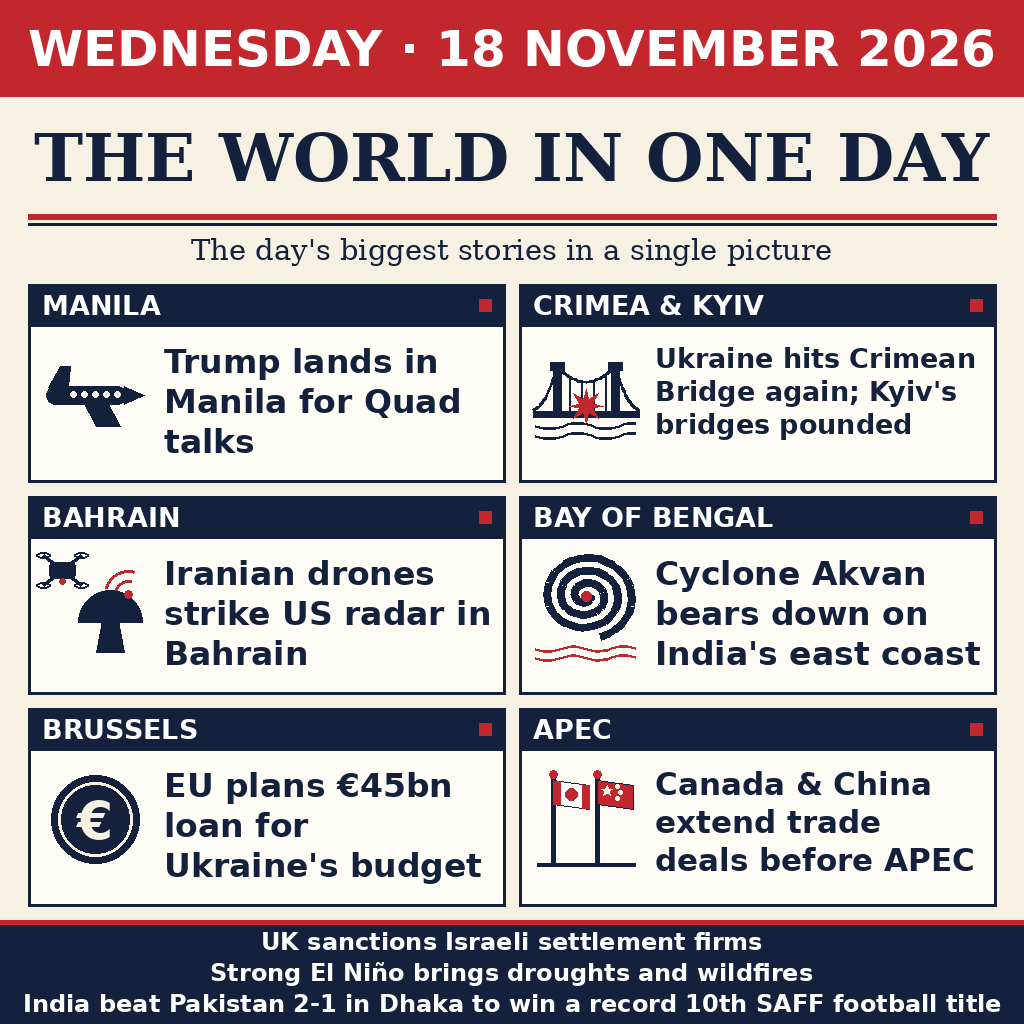
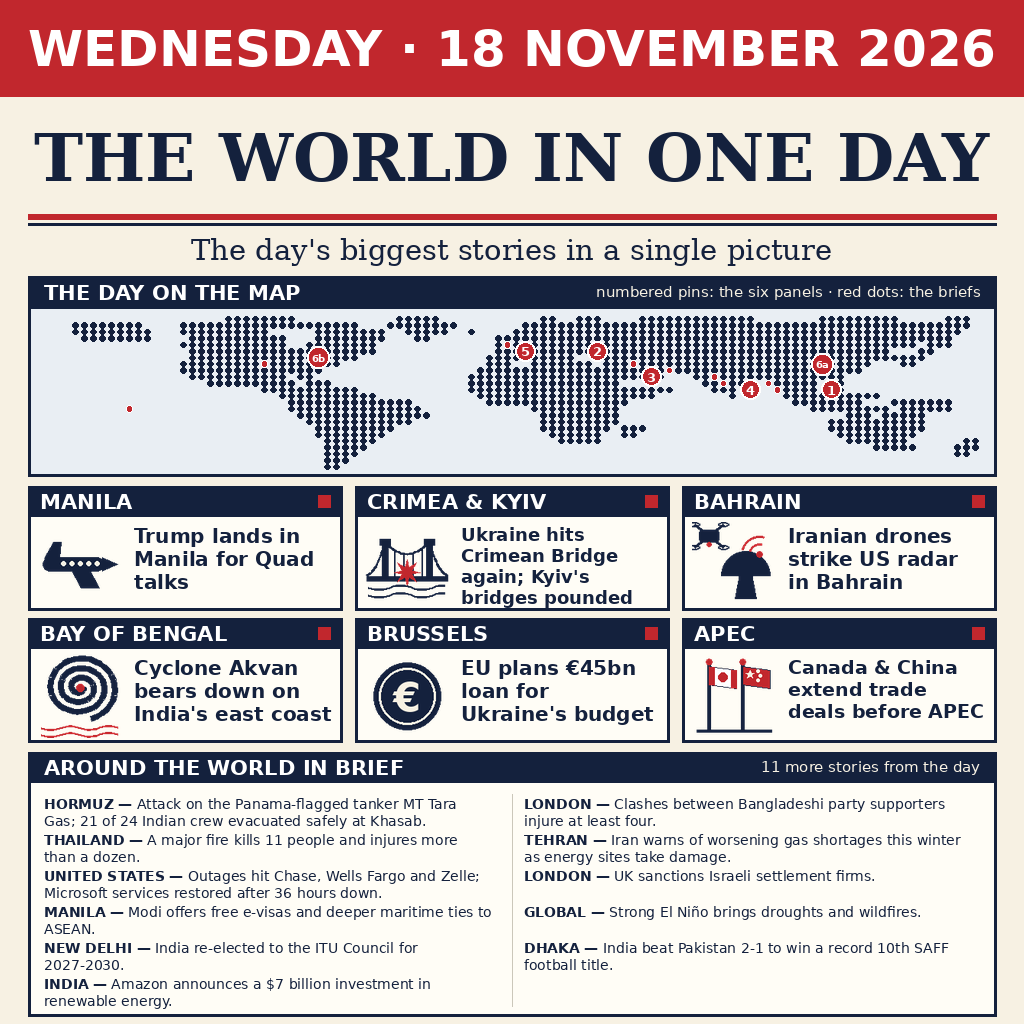
V2: world map with story pins + around-the-world briefs, 17 stories

diff --git a/tools/make_image.py b/tools/make_image.py
@@ -2,8 +2,10 @@
 """Render entry.png: the world news of Wednesday 18 November 2026 in one image.
 
 Newspaper-poster style, drawn entirely with PIL shapes and DejaVu type so
-every word stays crisp. The picture is a masthead naming the day, six story
-panels (place, icon, headline) and a ticker strip along the bottom.
+every word stays crisp. V2 layout: the masthead naming the day, a dotted
+world map with numbered pins for the six panel stories (plus dots for the
+briefs), the six story panels in a 3x2 grid, and an "Around the world in
+brief" section of eleven one-line briefs — 17 stories in all.
 
 Run:  python3 tools/make_image.py   ->  writes entry.png next to main.py
 """
@@ -18,6 +20,7 @@ PAPER = (247, 241, 227)      # cream newsprint
 NAVY = (20, 33, 61)          # ink navy
 RED = (193, 39, 45)          # accent red
 PANEL_BG = (255, 253, 246)   # panel paper
+MAP_BG = (233, 238, 243)     # pale sea grey-blue
 CREAM = (247, 241, 227)
 WHITE = (255, 255, 255)
 
@@ -58,16 +61,20 @@ def wrap_text(d, text, f, max_w):
     return lines
 
 
-def headline_lines(d, text, max_w, max_lines=3, start=33):
-    """Shrink the headline font until the wrap fits max_lines lines."""
+def headline_lines(d, text, max_w, max_lines=3, start=33, minimum=22,
+                   max_h=None):
+    """Shrink the headline font until the wrap fits max_lines lines
+    (and, when max_h is given, fits that pixel height too)."""
     size = start
-    while size >= 22:
+    while size >= minimum:
         f = font(SANS_B, size)
         lines = wrap_text(d, text, f, max_w)
-        if len(lines) <= max_lines:
+        lh = int(size * 1.18)
+        if len(lines) <= max_lines and (max_h is None
+                                        or len(lines) * lh <= max_h):
             return f, lines
-        size -= 2
-    f = font(SANS_B, 22)
+        size -= 1
+    f = font(SANS_B, minimum)
     return f, wrap_text(d, text, f, max_w)
 
 
@@ -188,6 +195,14 @@ def icon_flags(d, x, y):
         d.ellipse([x + dx - 2, y + dy - 2, x + dx + 2, y + dy + 2], fill=CREAM)
 
 
+def render_icon(icon_fn, size):
+    """Draw an icon in its native 110x110 box, then scale it to size."""
+    tmp = Image.new("RGBA", (110, 110), (0, 0, 0, 0))
+    td = ImageDraw.Draw(tmp)
+    icon_fn(td, 0, 0)
+    return tmp.resize((size, size), Image.LANCZOS)
+
+
 # ---------------------------------------------------------------- layout
 
 PANELS = [
@@ -215,52 +230,200 @@ def draw_masthead(d):
            font=font(SERIF, 29), fill=NAVY, anchor="mm")
 
 
-def draw_panel(d, px, py, pw, ph, place, headline, icon_fn):
+# ------------------------------------------------------------- world map
+# Equirectangular landmask, 104 columns (lon -180..180) by 24 rows
+# (lat +80..-58). '#' is land, '.' is sea. Authored by hand; the pins and
+# dots below are (column, row) cells in the same grid.
+
+LANDMASK = [
+    "....................########...........#####...........##..###....#############.......#########.....###.",
+    "...########....####################...########.......##################################################.",
+    "...#########...##########.....########..#####..#....##################################################..",
+    "....########....###########...########...##.......###################################################...",
+    "...............############..########.............###############################################.###...",
+    "................#####################.............############################################...##.....",
+    "................###################..............##########...####################################......",
+    "...............##################................###..#######.##############################...##.......",
+    "...............################.................###########################################.............",
+    "................###########.##.................######################...#################...............",
+    "..................##########.###...............#################.........#####..######.##...............",
+    "........................###########............#######################....###....#####.##...............",
+    "..........................###########...........####################........#.....###########...........",
+    "...........................##############........################..................########...#######...",
+    "...........................###############............##########.....................#########.######...",
+    "............................###############............#########.........................###.#####......",
+    ".............................############..............#########.......................###########......",
+    "..............................#########................########.###....................###########......",
+    "..............................########..................######..##......................#########.......",
+    "...............................######....................#####...........................#######......##",
+    "...............................#####........................................................#####....###",
+    "...............................####..................................................................##.",
+    "...............................###......................................................................",
+    "...............................##.......................................................................",
+]
+
+# (label, column, row): the six panel stories.
+MAP_PINS = [
+    ("1", 87, 11),    # Manila
+    ("2", 61, 5),     # Kyiv (Crimea just below)
+    ("3", 67, 9),     # Bahrain
+    ("4", 78, 11),    # Bay of Bengal
+    ("5", 53, 5),     # Brussels
+    ("6a", 86, 7),    # Beijing
+    ("6b", 30, 6),    # Ottawa
+]
+
+# (column, row): small unnumbered dots for the briefs' regions.
+MAP_DOTS = [
+    (69, 8),    # Hormuz
+    (81, 11),   # Thailand
+    (24, 7),    # United States
+    (74, 9),    # New Delhi
+    (75, 10),   # India
+    (51, 4),    # London
+    (65, 7),    # Tehran
+    (80, 10),   # Dhaka
+    (9, 14),    # El Niño, mid-Pacific
+]
+
+MAP_X0, MAP_Y0 = 48.5, 319.2     # centre of the (0, 0) cell
+MAP_PX, MAP_PY = 9.0, 6.42       # cell pitch in pixels
+
+
+def map_cell(col, row):
+    return (MAP_X0 + col * MAP_PX, MAP_Y0 + row * MAP_PY)
+
+
+def draw_map(d):
+    d.rectangle([28, 276, 996, 476], fill=MAP_BG, outline=NAVY, width=3)
+    d.rectangle([28, 276, 996, 308], fill=NAVY)
+    d.text((44, 292), "THE DAY ON THE MAP", font=font(SANS_B, 21),
+           fill=WHITE, anchor="lm")
+    note = "numbered pins: the six panels · red dots: the briefs"
+    f = fit_font(d, note, SANS, 470, 15, minimum=11)
+    d.text((980, 292), note, font=f, fill=CREAM, anchor="rm")
+    for row, line in enumerate(LANDMASK):
+        for col, ch in enumerate(line):
+            if ch == "#":
+                cx, cy = map_cell(col, row)
+                d.ellipse([cx - 2.7, cy - 2.7, cx + 2.7, cy + 2.7], fill=NAVY)
+    for col, row in MAP_DOTS:
+        cx, cy = map_cell(col, row)
+        d.ellipse([cx - 3.2, cy - 3.2, cx + 3.2, cy + 3.2], fill=RED,
+                  outline=WHITE, width=1)
+    for label, col, row in MAP_PINS:
+        cx, cy = map_cell(col, row)
+        if len(label) > 1:
+            r, fs = 11, 10
+        else:
+            r, fs = 10, 13
+        d.ellipse([cx - r, cy - r, cx + r, cy + r], fill=RED, outline=WHITE,
+                  width=2)
+        d.text((cx, cy), label, font=font(SANS_B, fs), fill=WHITE, anchor="mm")
+
+
+def draw_panel(img, d, px, py, pw, ph, place, headline, icon_fn):
     d.rectangle([px, py, px + pw, py + ph], fill=PANEL_BG, outline=NAVY, width=3)
-    d.rectangle([px, py, px + pw, py + 42], fill=NAVY)
-    d.text((px + 14, py + 21), place, font=font(SANS_B, 27), fill=WHITE,
+    d.rectangle([px, py, px + pw, py + 30], fill=NAVY)
+    d.text((px + 12, py + 15), place, font=font(SANS_B, 21), fill=WHITE,
            anchor="lm")
-    d.rectangle([px + pw - 26, py + 15, px + pw - 14, py + 27], fill=RED)
-    icon_fn(d, px + 12, py + 56)
-    tx = px + 136
-    tw = px + pw - 12 - tx
-    f, lines = headline_lines(d, headline, tw)
-    ty = py + 58
-    lh = int(f.size * 1.24)
+    d.rectangle([px + pw - 24, py + 9, px + pw - 12, py + 21], fill=RED)
+    icon = render_icon(icon_fn, 84)
+    img.paste(icon, (px + 10, py + 36), icon)
+    tx = px + 106
+    tw = pw - 106 - 10
+    f, lines = headline_lines(d, headline, tw, max_lines=4, start=20,
+                              minimum=14, max_h=86)
+    ty = py + 38
+    lh = int(f.size * 1.18)
     for line in lines:
         d.text((tx, ty), line, font=f, fill=NAVY, anchor="la")
         ty += lh
 
 
-def draw_grid(d):
-    pw, ph = 477, 198
+def draw_grid(img, d):
+    pw, ph = 314, 124
     for i, (place, headline, icon_fn) in enumerate(PANELS):
-        px = 28 + (i % 2) * (pw + 14)
-        py = 284 + (i // 2) * (ph + 14)
-        draw_panel(d, px, py, pw, ph, place, headline, icon_fn)
+        px = 28 + (i % 3) * (pw + 13)
+        py = 486 + (i // 3) * (ph + 8)
+        draw_panel(img, d, px, py, pw, ph, place, headline, icon_fn)
 
 
-TICKER_LINES = [
-    "UK sanctions Israeli settlement firms",
-    "Strong El Niño brings droughts and wildfires",
-    "India beat Pakistan 2-1 in Dhaka to win a record 10th SAFF football title",
+# ---------------------------------------------------------------- briefs
+
+BRIEFS = [
+    ("HORMUZ", "Attack on the Panama-flagged tanker MT Tara Gas; 21 of 24 "
+               "Indian crew evacuated safely at Khasab."),
+    ("THAILAND", "A major fire kills 11 people and injures more than a dozen."),
+    ("UNITED STATES", "Outages hit Chase, Wells Fargo and Zelle; Microsoft "
+                      "services restored after 36 hours down."),
+    ("MANILA", "Modi offers free e-visas and deeper maritime ties to ASEAN."),
+    ("NEW DELHI", "India re-elected to the ITU Council for 2027-2030."),
+    ("INDIA", "Amazon announces a $7 billion investment in renewable energy."),
+    ("LONDON", "Clashes between Bangladeshi party supporters injure at "
+               "least four."),
+    ("TEHRAN", "Iran warns of worsening gas shortages this winter as energy "
+               "sites take damage."),
+    ("LONDON", "UK sanctions Israeli settlement firms."),
+    ("GLOBAL", "Strong El Niño brings droughts and wildfires."),
+    ("DHAKA", "India beat Pakistan 2-1 to win a record 10th SAFF "
+              "football title."),
 ]
 
 
-def draw_ticker(d):
-    d.rectangle([0, 920, W, H], fill=NAVY)
-    d.rectangle([0, 920, W, 924], fill=RED)
-    for i, line in enumerate(TICKER_LINES):
-        f = fit_font(d, line, SANS_B, 980, 24, minimum=16)
-        d.text((512, 941 + i * 31), line, font=f, fill=WHITE, anchor="mm")
+def draw_brief(d, x, y, place, body, max_w):
+    """One brief: bold-caps place lead-in, regular body, wrapped by hand so
+    the bold lead-in is measured with the bold font. At most two lines."""
+    f_b = font(SANS_B, 14)
+    f_r = font(SANS, 14)
+    space_w = d.textlength(" ", font=f_r)
+    tokens = [(w, True) for w in place.split()]
+    tokens.append(("—", True))
+    tokens += [(w, False) for w in body.split()]
+    lines, cur, cur_w = [], [], 0.0
+    for word, bold in tokens:
+        ww = d.textlength(word, font=f_b if bold else f_r)
+        add = ww if not cur else ww + space_w
+        if cur and cur_w + add > max_w:
+            lines.append(cur)
+            cur, cur_w = [(word, bold, ww)], ww
+        else:
+            cur.append((word, bold, ww))
+            cur_w += add
+    if cur:
+        lines.append(cur)
+    for i, line in enumerate(lines[:2]):
+        lx = x
+        for word, bold, ww in line:
+            d.text((lx, y + i * 17), word, font=f_b if bold else f_r,
+                   fill=NAVY, anchor="la")
+            lx += ww + space_w
+
+
+def draw_briefs(d):
+    d.rectangle([28, 752, 996, 1016], fill=PANEL_BG, outline=NAVY, width=3)
+    d.rectangle([28, 752, 996, 782], fill=NAVY)
+    d.text((44, 767), "AROUND THE WORLD IN BRIEF", font=font(SANS_B, 21),
+           fill=WHITE, anchor="lm")
+    d.text((980, 767), "11 more stories from the day", font=font(SANS, 15),
+           fill=CREAM, anchor="rm")
+    d.line([512, 794, 512, 1006], fill=(203, 199, 186), width=1)
+    for i, (place, body) in enumerate(BRIEFS[:6]):
+        draw_brief(d, 44, 796 + i * 36, place, body, 448)
+    for i, (place, body) in enumerate(BRIEFS[6:]):
+        draw_brief(d, 524, 796 + i * 36, place, body, 448)
 
 
 def main():
+    for row in LANDMASK:
+        assert len(row) == 104, f"landmask row has {len(row)} cells"
+    assert len(LANDMASK) == 24
     img = Image.new("RGB", (W, H), PAPER)
     d = ImageDraw.Draw(img)
     draw_masthead(d)
-    draw_grid(d)
-    draw_ticker(d)
+    draw_map(d)
+    draw_grid(img, d)
+    draw_briefs(d)
     out = Path(__file__).resolve().parent.parent / "entry.png"
     img.save(out, "PNG", optimize=True)
     print(f"wrote {out} ({out.stat().st_size} bytes)")
